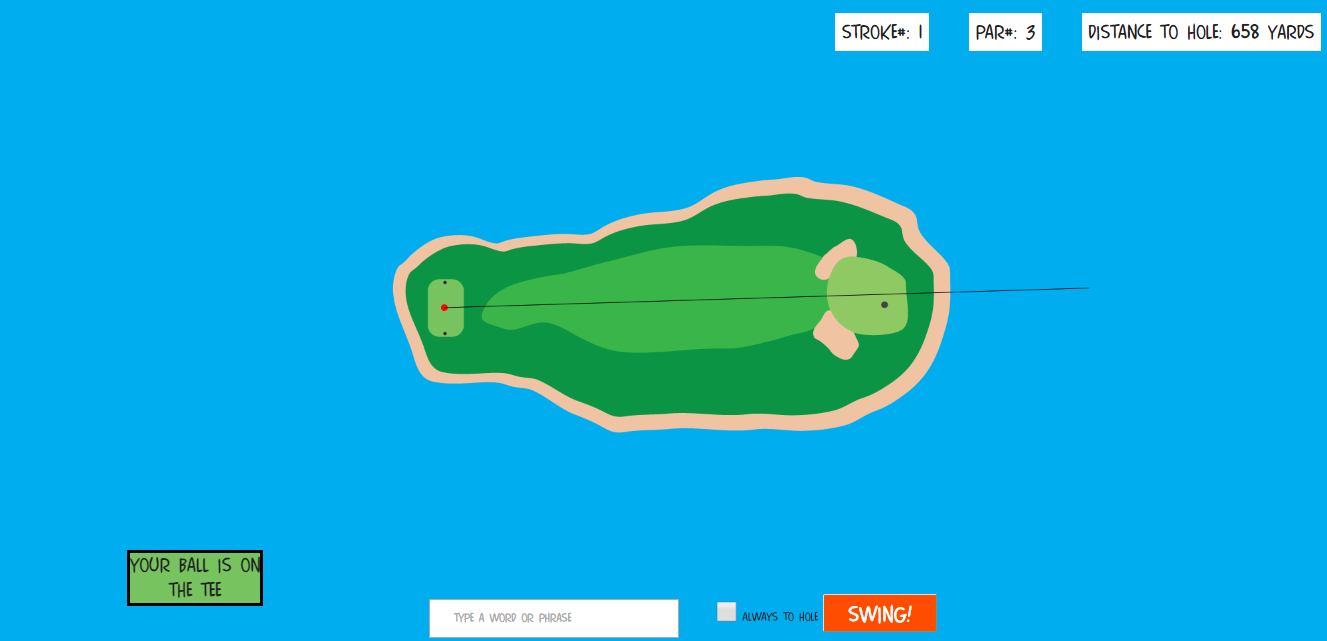
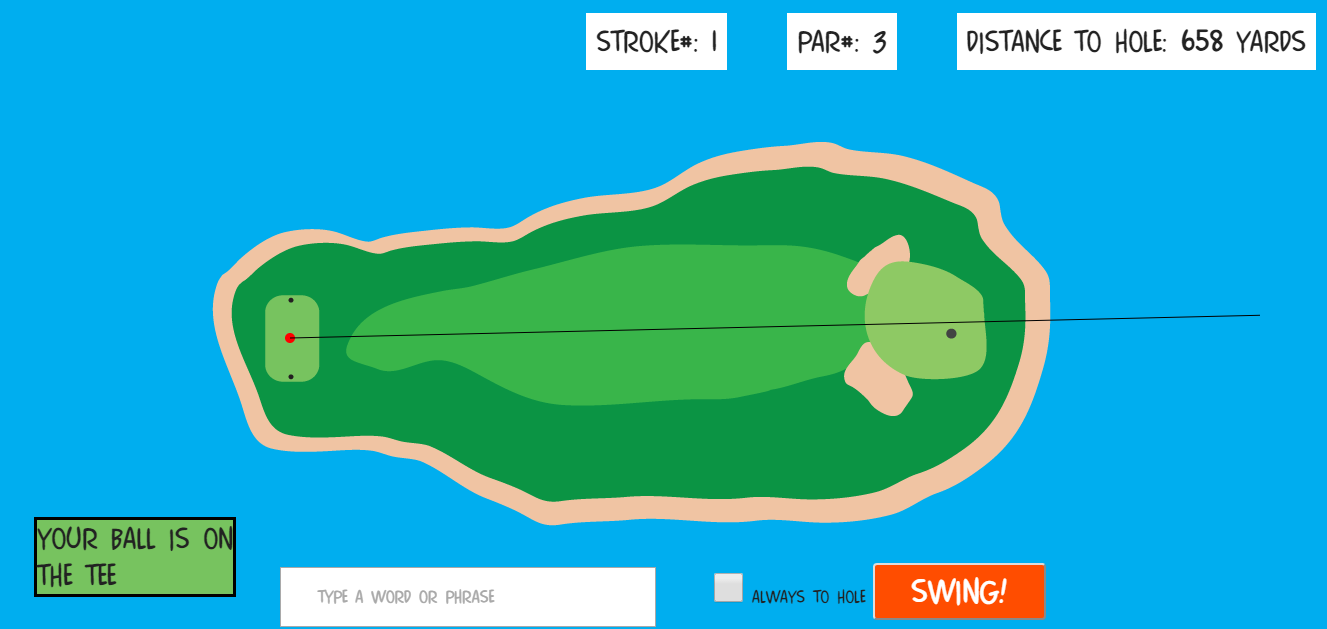
messages on new terrain, resized everything for no zoom

diff --git a/src/main/resources/static/js/play2.js b/src/main/resources/static/js/play2.js
@@ -129,6 +129,7 @@ function moveBall(ball, dest_X, dest_Y, terrain, playerId) {
 				callback: function () {        
 					if (terrain === "WATER") {
 						sink(ball, preX, preY);
+            messagepopup("your ball is sleeping with the fishes!");
 					} else {
 						ball.animate({
 							x: ball.x + deltaX * .05,
@@ -149,7 +150,8 @@ function moveBall(ball, dest_X, dest_Y, terrain, playerId) {
 										enableSwingButton();
 										if (outofbounds(ball, canvas)) {
 											ball.x = preX;
-											ball.y = preY;              
+											ball.y = preY;
+                      messagepopup("that went way too far!"); 
 										} else {
 											disttohole = calcDistToHole(ball);
 											document.getElementById("distancehud").innerHTML = "distance to hole: " + disttohole + " yards";
@@ -196,21 +198,73 @@ function enableSwingButton() {
 	//Terrain
 	var myPlayer = players[id];
 	var terrainpic = document.getElementById("terrainpic");
+  var oldterrain = terrainpic.className;
+  random = Math.floor((Math.random() * 3) + 1);
 	if (myPlayer.terrain == "BUNKER") {
 		terrainpic.setAttribute("class", "terrain_bunker");
 		terrainpic.innerHTML = "your ball is in<br> the bunker";
+    if (oldterrain != "terrain_bunker") {
+      switch (random) {
+        case 1: messagepopup("fun in the sand");
+        break;
+        case 2: messagepopup("bunker down for some chipping");
+        break;
+        case 3: messagepopup("not where you want to be");
+        break;
+      }
+    }
 	} else if (myPlayer.terrain == "FAIRWAY") {
 		terrainpic.setAttribute("class", "terrain_fairway");
 		terrainpic.innerHTML = "your ball is on<br> the fairway";
+    if (oldterrain != "terrain_fairway") {
+      switch (random) {
+        case 1: messagepopup("nice shot!");
+        break;
+        case 2: messagepopup("nice one!");
+        break;
+        case 3: messagepopup("great shot!");
+        break;
+      }
+    }
 	} else if (myPlayer.terrain == "ROUGH") {
 		terrainpic.setAttribute("class", "terrain_rough");
 		terrainpic.innerHTML = "your ball is in<br> the rough";
+    if (oldterrain != "terrain_rough") {
+      switch (random) {
+        case 1: messagepopup("you're going to have a rough time");
+        break;
+        case 2: messagepopup("this shot's going to be tricky");
+        break;
+        case 3: messagepopup("not your best shot");
+        break;
+      }
+    }
 	} else if (myPlayer.terrain == "GREEN") {
 		terrainpic.setAttribute("class", "terrain_green");
 		terrainpic.innerHTML = "your ball is on<br> the green";
+    if (oldterrain != "terrain_green") {
+      switch (random) {
+        case 1: messagepopup("it's all putting from here!");
+        break;
+        case 2: messagepopup("nice setup!");
+        break;
+        case 3: messagepopup("just tap it in happy");
+        break;
+      }
+    }
 	} else if (myPlayer.terrain == "TEE") {
 		terrainpic.setAttribute("class", "terrain_tee");
 		terrainpic.innerHTML = "your ball is in<br> the teebox";
+    if (oldterrain != "terrain_tee") {
+      switch (random) {
+        case 1: messagepopup("how'd you get back here?");
+        break;
+        case 2: messagepopup("did you not hit it very far?");
+        break;
+        case 3: messagepopup("a little closer to the hole next time");
+        break;
+      }
+    }
 	}
 	//end terrain
 }

diff --git a/src/main/resources/static/css/play.css b/src/main/resources/static/css/play.css
@@ -6,6 +6,9 @@
 #tweetme {
     font-family:"Comics";
     src: url("comics.ttf");
+    /*position: absolute;
+    top:500px;*/
+    left:20%;
 	width: 300px;
 	height: 40px;
 	margin :50px;
@@ -17,6 +20,7 @@ body {
 	background-size: cover;*/
 	background-color: #00ADEF;
 	font-family:"Comics";
+	overflow: hidden;
 	/*background-image: url("gui_hole1.png");*/
 		user-select:none;
         -moz-user-select: none; 
@@ -25,19 +29,45 @@ body {
         -o-user-select: none;
 }
 
-#container {
+#container1 {
 	position: relative;
 	width: 100%;
 	text-align: center;
 }
+
+#container2 {
+	position: absolute;
+	top:80%;
+	left:250px;
+}
+
 #myCanvas {
 	background-image: url("gui_hole1.png");
+	position:absolute;
+	left: 0px;
+	top:0px;
+	overflow-y: hidden;
+	margin:0;
+	z-index:-1;
 }
 
 #check {
+	/*position:absolute;
+	left:55%;
+	top:570px;
+	z-index: 20;
+	text-align: center;*/
 	width: 30px;
 	height: 30px;
 }
+
+/*label{
+	position: absolute;
+	left:52%;
+	top:540px;
+	z-index: 30;
+	text-align: center;
+}*/
 
 p {
 	font-size:20pt;
@@ -158,7 +188,7 @@ p {
 	border: solid;
 	border-color: black;
 	float: left;
-	margin-left: 10%;
+	margin-left: -24%;
 	position: absolute;
 	font-size: 20pt;
 	z-index: 10;
@@ -169,7 +199,7 @@ p {
 	border: solid;
 	border-color: black;
 	float: left;
-	margin-left: 10%;
+	margin-left: -24%;
 	position: absolute;
 	font-size: 20pt;
 	z-index: 10;
@@ -180,7 +210,7 @@ p {
 	border: solid;
 	border-color: black;
 	float: left;
-	margin-left: 10%;
+	margin-left: -24%;
 	position: absolute;
 	font-size: 20pt;
 	z-index: 10;
@@ -191,7 +221,7 @@ p {
 	border: solid;
 	border-color: black;
 	float: left;
-	margin-left: 10%;
+	margin-left: -24%;
 	position: absolute;
 	font-size: 20pt;
 	z-index: 10;
@@ -202,7 +232,7 @@ p {
 	border: solid;
 	border-color: black;
 	float: left;
-	margin-left: 10%;
+	margin-left: -24%;
 	position: absolute;
 	font-size: 20pt;
 	z-index: 10;
@@ -216,5 +246,5 @@ p {
 	position: absolute;
 	width:100%;
 	top:50%;
-	z-index: 6;
+	z-index: 30;
 }

diff --git a/src/main/resources/static/css/tutorial.css b/src/main/resources/static/css/tutorial.css
@@ -11,7 +11,7 @@ p{
 	margin-left: 30px;
 	margin-right:30px;
 	text-align: center;
-	font-size: 40px;
+	font-size: 20pt;
 	font-family:"Comics";
 }
 
@@ -45,49 +45,49 @@ p{
 #para4 {
 	visibility: hidden;
 	position:absolute;
-	top:70%;
+	top:65%;
 	left:55%;
 }
 
 #para5 {
 	visibility: hidden;
 	position:absolute;
-	top:70%;
+	top:65%;
 	left:39%;
 }
 
 #para6 {
 	visibility: hidden;
 	position: absolute;
-	top:58%;
+	top:53%;
 }
 
 #para7 {
 	visibility: hidden;
 	position: absolute;
 	top:6%;
-	left:63%;
+	left:46%;
 }
 
 #para8 {
 	visibility: hidden;
 	position: absolute;
 	top:6%;
-	left:54%;
+	left:37%;
 }
 
 #para9 {
 	visibility: hidden;
 	position: absolute;
 	top:6%;
-	left:63%;
+	left:50%;
 }
 
 #para10 {
 	visibility: hidden;
 	position: absolute;
 	top:6%;
-	left:81%;
+	left:70%;
 }
 
 #para11 {

diff --git a/src/main/resources/static/css/instructions.css b/src/main/resources/static/css/instructions.css
@@ -9,7 +9,7 @@ p{
 	margin-left: 30px;
 	margin-right:30px;
 	text-align: center;
-	font-size: 40px;
+	font-size: 20pt;
 	font-family:"Comics";
 }
 

diff --git a/src/main/resources/static/css/button.css b/src/main/resources/static/css/button.css
@@ -20,7 +20,7 @@
 	background-color:#ff692e;
 }
 .myButton:active {
-	position:relative;
+	/*position:relative;*/
 	/*top:1px;*/
 }
 

diff --git a/src/main/resources/static/css/start.css b/src/main/resources/static/css/start.css
@@ -26,6 +26,7 @@
 body {
 	background-image: url(tempbackground.png);
 	background-size: cover;
+	overflow: hidden;
 }
 
 h1 {
